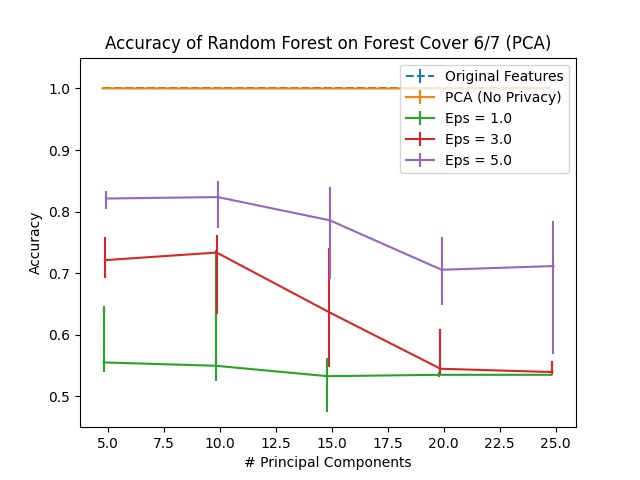
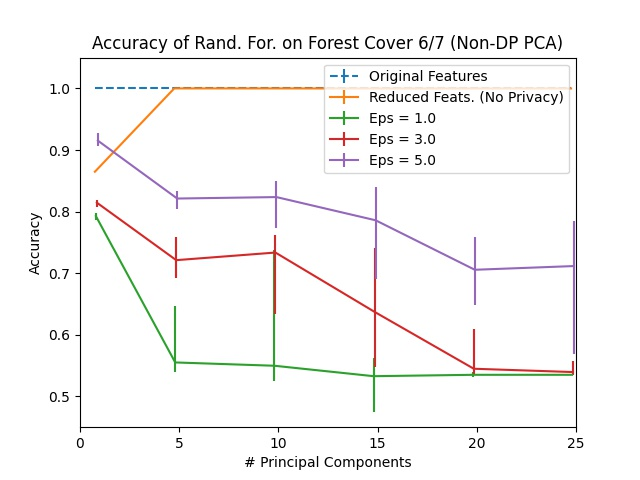
Modify MNIST script

diff --git a/multi-dim-featcreation/Submission_Plots/Replot.py b/multi-dim-featcreation/Submission_Plots/Replot.py
@@ -17,7 +17,7 @@ dataset_to_string = {
 
 dataset = 'covtype67'
 algs = ['RandomForest'] # ['AdaBoost', 'RandomForest', 'KNN']
-# algs = ['LogisticRegression', 'MultiLayerPerceptron']
+# algs = ['MultiLayerPerceptron'] # ['LogisticRegression', 'MultiLayerPerceptron']
 num_trials = 25
 total_eps_list = [1.0, 3.0, 5.0]
 for alg in algs:
@@ -30,7 +30,7 @@ for alg in algs:
 	# Edit!
 	plt.ylim((0.45, 1.05))
 	plt.xlim((0, 25))
-	plt.errorbar(np.array([1, 10, 15, 20, 25]) + shift, alg_df['Original Features'], \
+	plt.errorbar(np.array([1, 5, 10, 15, 20, 25]) + shift, alg_df['Original Features'], \
 		yerr = np.zeros(shape = (2, len(alg_df))), label = 'Original Features', linestyle = 'dashed')
 	# plt.errorbar(alg_df.index + shift, alg_df['PCA'], \
 	# 	yerr = np.zeros(shape = (2, len(alg_df))), label = 'Reduced Feats. (No Privacy)')
@@ -44,7 +44,7 @@ for alg in algs:
 
 	plt.xlabel("# RFFs")
 	plt.ylabel("Accuracy")
-	# plt.title('Accuracy of %s on %s (PCA + Memb Unknown)' % (algs_to_string[alg], dataset_to_string[dataset]))
+	# plt.title('Accuracy of %s on %s (RFFs)' % (algs_to_string[alg], dataset_to_string[dataset]))
 	# plt.legend(loc = "upper right")
 	plt.savefig('%s.jpg' % file)
 	plt.close()

diff --git a/multi-dim-featcreation/covtype67_all_experiments/covtype67_privaterff_real.py b/multi-dim-featcreation/covtype67_all_experiments/covtype67_privaterff_real.py
@@ -108,7 +108,7 @@ if __name__ == "__main__":
 	bandwidth = 1800
 
 	sketch_dim = [1]
-	total_eps_list = [1.0, 2.0, 3.0, 4.0, 5.0]
+	total_eps_list = [1.0, 3.0, 5.0]
 	algs = ['RandomForest']
 
 	trial_dict = {}
@@ -177,7 +177,7 @@ if __name__ == "__main__":
 		alg_df = alg_df 
 		print(alg_df)
 
-		file = 'covtype67_rffrealclip1_%s_trials=%i' % (alg.lower(), num_trials)
+		file = 'covtype67_rffrealclip_dim1_%s_trials=%i' % (alg.lower(), num_trials)
 		alg_df.to_csv('%s.csv' % file)
 		shift = -0.25
 		plt.ylim((0.0, 1.0))

diff --git a/multi-dim-featcreation/mnist49_all_experiments/mnist49_privaterff_real.py b/multi-dim-featcreation/mnist49_all_experiments/mnist49_privaterff_real.py
@@ -192,7 +192,7 @@ if __name__ == "__main__":
 		alg_df = alg_df 
 		print(alg_df)
 
-		file = 'mnist49_rffrealclip1_smalldim_%s_trials=%i' % (alg.lower(), num_trials)
+		file = 'mnist49_rffrealclip_dim1_%s_trials=%i' % (alg.lower(), num_trials)
 		alg_df.to_csv('%s.csv' % file)
 		shift = -0.25
 		plt.ylim((0.0, 1.0))
